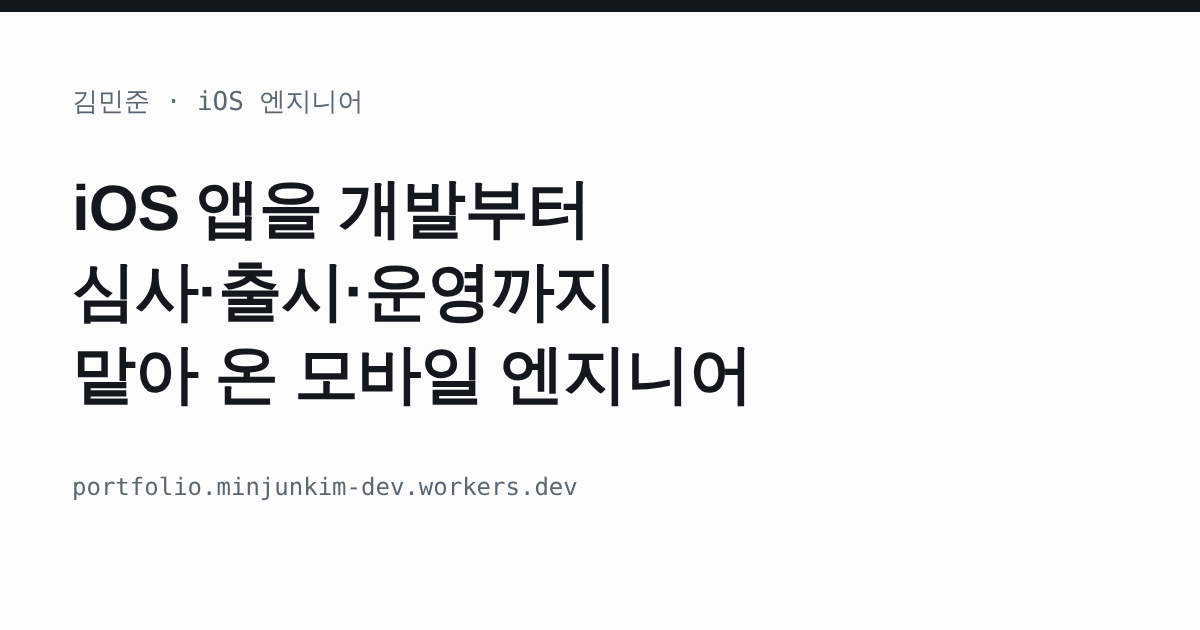
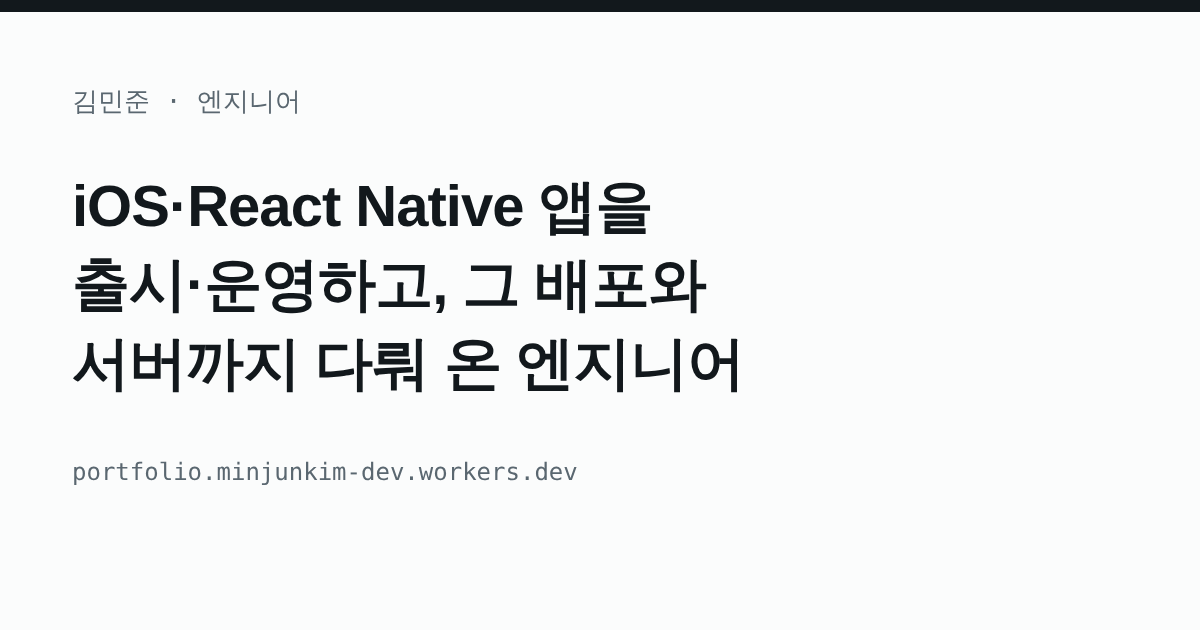
feat: 범용 첫 줄과 작업 분야 필터를 넣고 인프라·SDK 작업 3개를 더한다 (#35)
## Summary

완료 기준: 첫 줄이 모바일에 한정되지 않고, 작업을 분야별로 거를 수 있고, 인프라·SDK 작업 3개가 정본 그대로 실린다.

```text
index.astro
  hero h1: "iOS·React Native 앱을 출시·운영하고, 그 배포와 서버까지 다뤄 온 엔지니어입니다."
  works (5 → 8)
+   web-deploy  [인프라·배포]  배포 완료 신호 뒤 SHA-256으로 실제 결과 확인
+   ci-disk     [인프라·배포]  CI 디스크 100% → 43%
+   sdk-flaky   [서버·SDK]     flaky 테스트 2,400 → 0 (에이전트 구현, 검증은 본인)
  filter (JS 있을 때만 보임, 없으면 전체 표시)
    [전체] [모바일] [서버·SDK] [인프라·배포] [AI]  → card.hidden, aria-pressed, 개수 안내(aria-live)
about / writing / meta: "모바일 엔지니어" → "엔지니어"
og.png: 새 첫 줄로 다시 만듦
```

- 경력 사실은 career 정본(I4, I1, D2, E4)의 강도 그대로 썼다. 원인 추적·구현은 에이전트, 본인은 조건
설정·검증이라고 적었다.
- 내부 정보(URL, 계정, 사내 인원, 오류 코드, 영향 규모)는 넣지 않았다.
- 독립 리뷰(쉬움 등급)에서 정본과 어긋난 문구 2곳과 표현 3곳을 지적받아 고쳤다(2e569e8): "운영 배포 성공 기준"
→ "배포 성공 기준", "반복 실행으로 검증" → "검증", "같은 반복에서" 삭제, ci-disk 문장 정리, 정본에 없는
습관 문장을 첫 줄 설명에서 뺌.

## Evidence

- **Before:** 첫 줄 "모바일 엔지니어", 작업 5개, 필터 없음.
**After:** 첫 줄 범용, 작업 8개, 분야 필터(전체 8 / 모바일 4 / 서버·SDK 2 / 인프라·배포 2 / AI
1).
- `npm run check`: 0 errors, 0 warnings. `npm run build`: 성공(4쪽).
- Playwright 7개 통과(로컬, Chromium). 필터 테스트는 개수만이 아니라 분야마다 보이는 카드 id를 확인한다:
모바일 = imageio·ios-26-4·ios-sdk·qr-session, 서버·SDK =
ios-sdk·sdk-flaky(ios-sdk는 두 분야에 모두 보임), 인프라·배포 = ci-disk·web-deploy, AI
= repo-office.
- 10여 개 폭 × 4쪽 × 밝은/어두운 테마 레이아웃 훑기: 문제 없음. 화면 캡처(PC 위쪽, PC에서 인프라·배포로 거름,
모바일 칩 줄)로 눈으로도 확인했다.
- 한계: 로컬 Node는 22.23.5이고 프로젝트 고정판은 24.22.3이다(mise 설치 경로가 막힘). 그래서
`baseline.py run` 대신 npm 명령을 직접 돌렸다. Node 24 첫 실행은 CI다.

## Merge Danger
[…]

diff --git a/tests/decode-slider.spec.ts b/tests/decode-slider.spec.ts
@@ -58,3 +58,42 @@ test("메뉴 링크의 누르는 영역이 44px 이상이다", async ({ page }) 
     expect(box!.height + 0.5).toBeGreaterThanOrEqual(44);
   }
 });
+
+test("첫 줄이 한 분야로 좁지 않고, 작업은 분야 태그로 거를 수 있다", async ({ page }) => {
+  await page.goto("/");
+  await expect(page.locator("h1")).toContainText("iOS·React Native 앱을");
+  await expect(page.locator("h1")).toContainText("배포와 서버까지");
+
+  const cards = page.locator(".work");
+  await expect(cards).toHaveCount(8);
+  await expect(page.locator("#work-count")).toHaveText("작업 8개");
+
+  const visibleIds = () => page.locator(".work:visible").evaluateAll((els) => els.map((e) => e.id).sort());
+
+  await page.getByRole("button", { name: "인프라·배포" }).click();
+  await expect(page.getByRole("button", { name: "인프라·배포" })).toHaveAttribute("aria-pressed", "true");
+  expect(await visibleIds()).toEqual(["ci-disk", "web-deploy"]);
+  await expect(page.locator("#work-count")).toHaveText("인프라·배포 작업 2개");
+
+  await page.getByRole("button", { name: "모바일" }).click();
+  expect(await visibleIds()).toEqual(["imageio", "ios-26-4", "ios-sdk", "qr-session"]);
+
+  // ios-sdk has two tags, so it shows under both 모바일 and 서버·SDK
+  await page.getByRole("button", { name: "서버·SDK" }).click();
+  expect(await visibleIds()).toEqual(["ios-sdk", "sdk-flaky"]);
+
+  await page.getByRole("button", { name: "AI" }).click();
+  expect(await visibleIds()).toEqual(["repo-office"]);
+
+  await page.getByRole("button", { name: "전체" }).click();
+  await expect(page.locator(".work:visible")).toHaveCount(8);
+});
+
+test("스크립트가 없으면 작업이 모두 보이고 분야 버튼은 숨겨진다", async ({ browser }) => {
+  const context = await browser.newContext({ javaScriptEnabled: false });
+  const page = await context.newPage();
+  await page.goto("/");
+  await expect(page.locator(".work:visible")).toHaveCount(8);
+  await expect(page.locator("#work-filter")).toBeHidden();
+  await context.close();
+});
